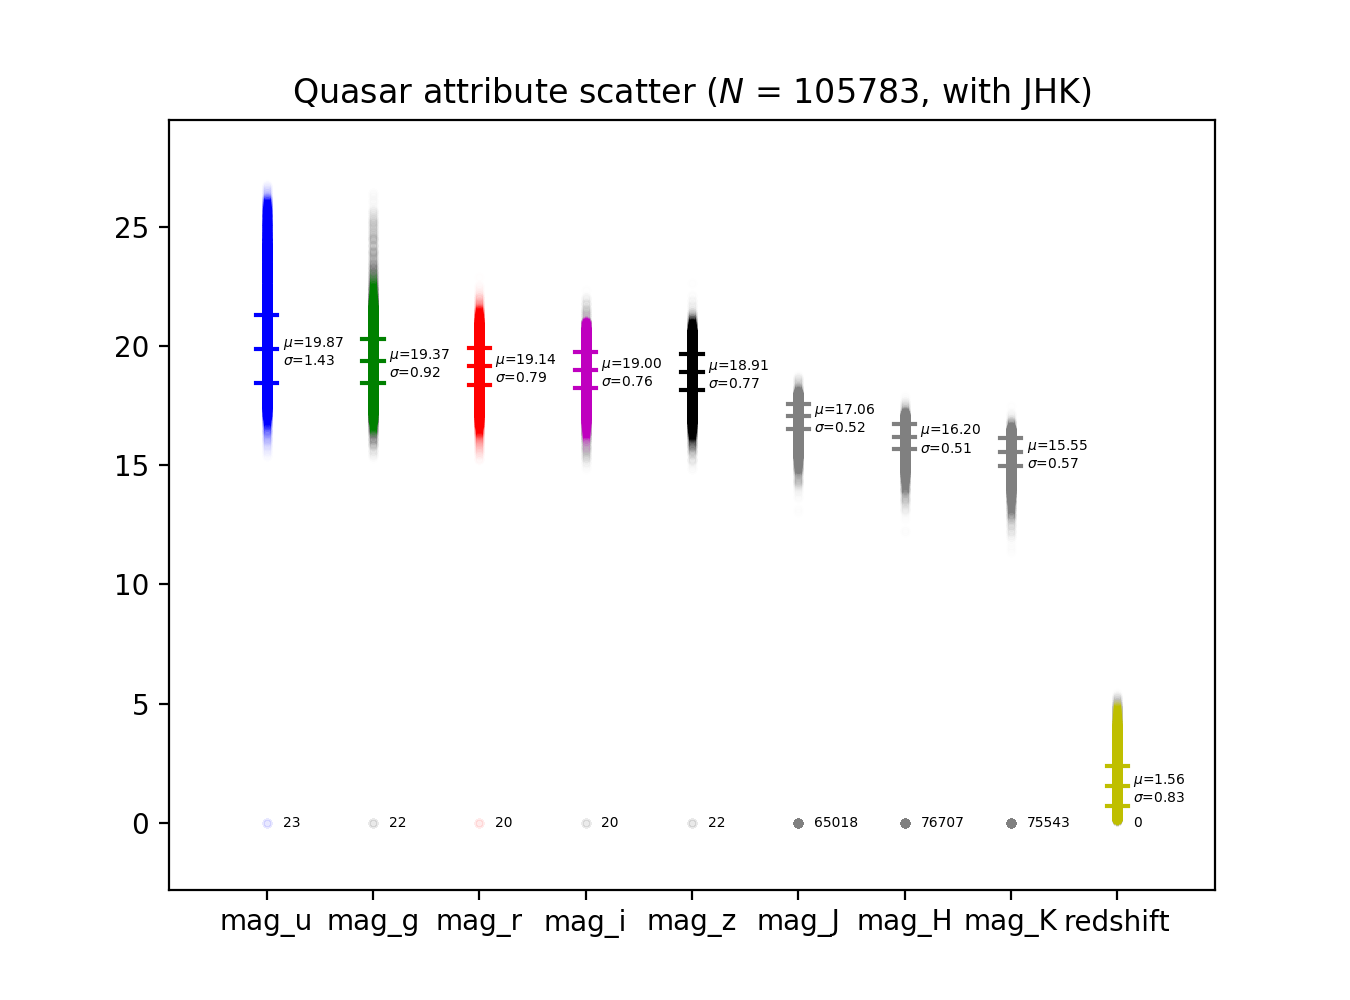
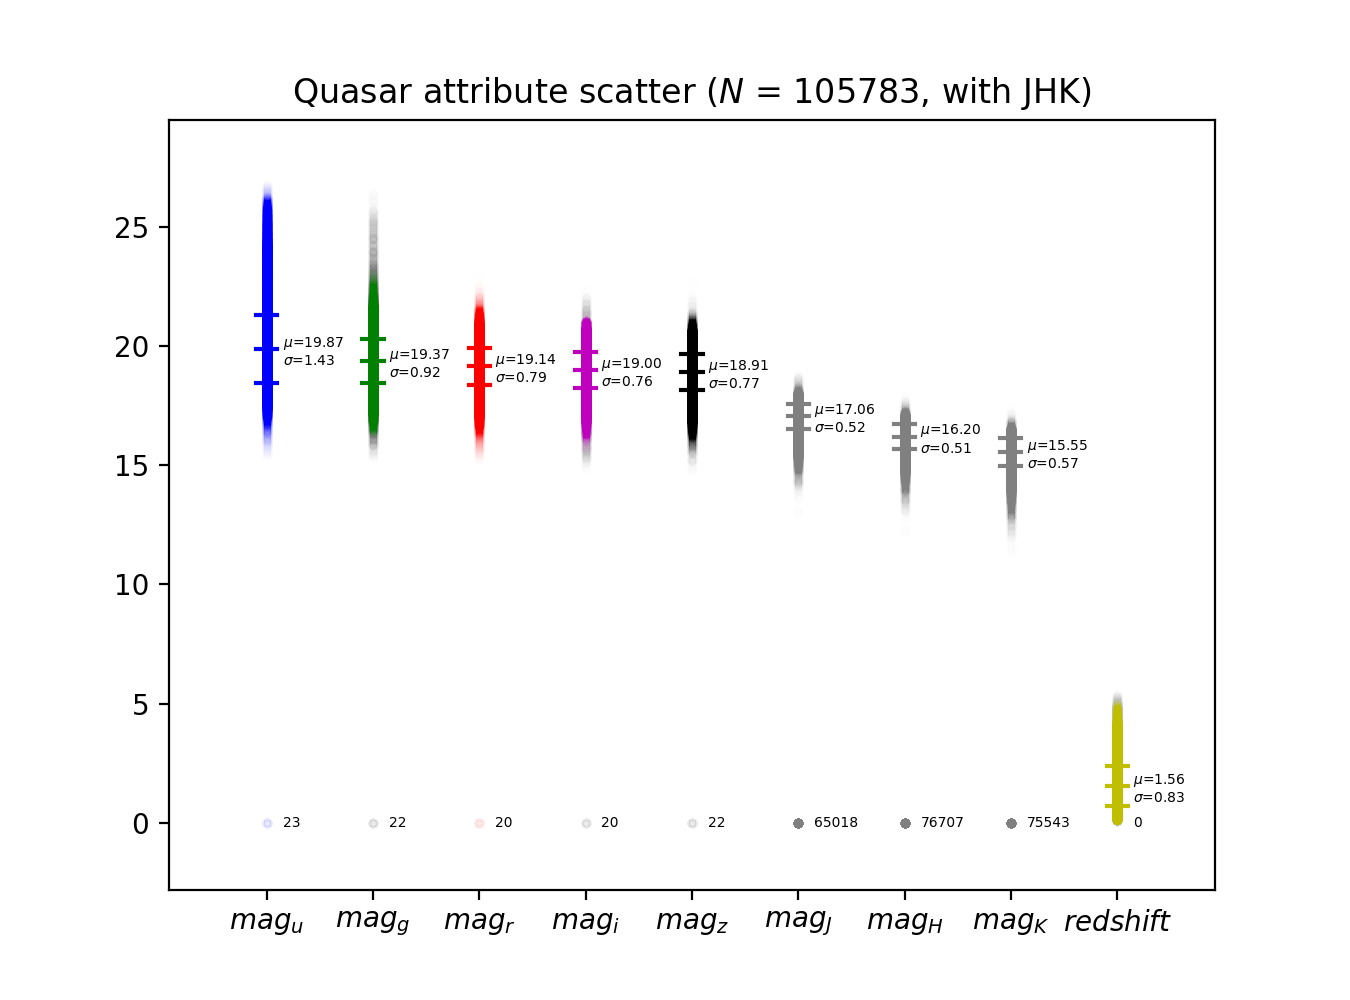
Final formatting fixes

Changed region(s): [[0.4044, 0.899, 0.8711, 0.961], [0.1556, 0.899, 0.3733, 0.961]]

diff --git a/src/quasars.py b/src/quasars.py
@@ -10,7 +10,7 @@ def plotDistr (title, data, labels, colors, disp0 = False):
 	plt.figure(figsize = (len(labels) * 0.75, 5))
 	plt.margins(0.1)
 	plt.title(title)
-	plt.xticks(range(len(labels)), labels)
+	plt.xticks(range(len(labels)), [f'${l}$' for l in labels])
 
 	for i in range(len(labels)):
 		# Draw points
@@ -44,18 +44,19 @@ def plotRaw (quasars):
 	labels = ['mag_u', 'mag_g', 'mag_r', 'mag_i', 'mag_z', 'redshift']
 	colors = ['b', 'g', 'r', 'm', 'k', 'y']
 	if useJHK:
-		labels = ['mag_u', 'mag_g', 'mag_r', 'mag_i', 'mag_z', 'mag_J', 'mag_H', 'mag_K', 'redshift']
-		colors = ['b', 'g', 'r', 'm', 'k', '0.5', '0.5', '0.5', 'y']
+		labels[5:5] = ['mag_J', 'mag_H', 'mag_K']
+		colors[5:5] = ['0.5', '0.5', '0.5']
 	plotDistr(title, quasars, labels, colors, True)
 plotRaw(raw_data)
 
 # Plots the processed quasar data
 def plotProcessed (prcQuasars):
 	title = f"Processed quasar attributes ($N$ = {len(prcQuasars)}, with{'' if useJHK else 'out'} JHK)"
-	labels = range(len(combs))
+	# Only plot the first 10 combinations, otherwise the graph will be huge
+	labels = range(10)
 	dataDict = []
 	for i in labels:
 		dataDict.append(prcQuasars[:, i])
-	colors = ['0.5'] * len(combs)
+	colors = ['0.5'] * 10
 	plotDistr(title, dataDict, labels, colors)
 plotProcessed(featuresPre)

diff --git a/src/models.py b/src/models.py
@@ -1,6 +1,6 @@
 """
 models.py - Helper script for main.py
-This script holds all the models and parameters that will be used for training.
+This script holds all the models and hyperparameters that will be used for training.
 """
 from imports import *
 
